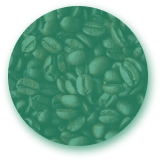
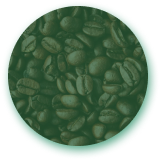
changed circle colours on product page

diff --git a/products/templates/products.html b/products/templates/products.html
@@ -73,7 +73,7 @@
 				<div class="border-dark bordered">
 					<img
 			              class="rounded-circle"
-			              src="/static/img/yellow.png"
+			              src="/static/img/blue.png"
 			              alt="Arabica Range"
 			              width="140"
 			              height="140"
@@ -122,7 +122,7 @@
 						</div>
 						<div class="d-flex justify-content-center my-3">
 							<a href="{% url 'view_cart' %}"
-								class="col-md-5 btn btn-warning rounded-pill py-2 font-weight-bold">View
+								class="col-md-5 btn btn-primary rounded-pill py-2 font-weight-bold">View
 								Cart</a>
 						</div>
 					</div>
